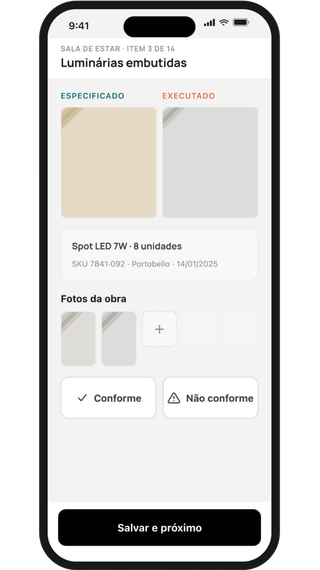
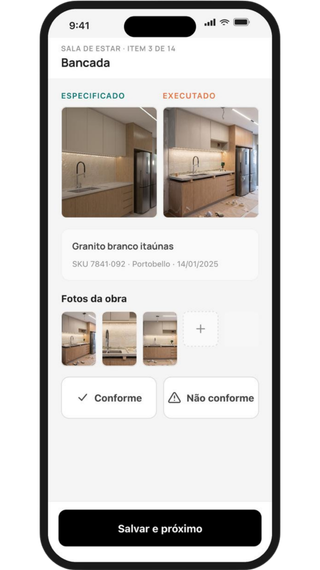
feat(routing): promove /jornada a home e move a home antiga para /antiga
- Renomeia src/app/jornada/{page.tsx,jornada.css} para src/app/{page.tsx,jornada.css};
  a página da jornada passa a responder pela raiz do site.
- Move a home antiga para src/app/antiga/page.tsx, preservando-a como referência
  acessível em /antiga.
- Topbar e Footer já linkavam para "/" — passam a apontar naturalmente para a
  jornada; nenhum link interno precisa ser ajustado.
- Substitui a tela "inspetor-vistoria" por uma nova versão gerada a partir do
  master 1920×3420 (320/640/960.webp + fallback PNG 320).

diff --git a/src/app/page.tsx b/src/app/page.tsx
@@ -1,33 +1,57 @@
-import { CarrosselLogos } from "@/components/carrossel-logos";
-import { FaleComAGente } from "@/components/fale-com-a-gente";
+import type { Metadata } from "next";
+import { Topbar } from "@/components/topbar";
 import { Footer } from "@/components/footer";
 import { Hero } from "@/components/hero";
-import { NavegandoNaPlataforma } from "@/components/navegando-na-plataforma";
-// import { NukiLab } from "@/components/nuki-lab";
-import { RecursoControleAnalise } from "@/components/recurso-controle-analise";
-import { RecursoPersonalizacao } from "@/components/recurso-personalizacao";
-import { SobreANuki } from "@/components/sobre-a-nuki";
-import { SobrePlataforma } from "@/components/sobre-plataforma";
-import { SuaIdentidade } from "@/components/sua-identidade";
-import { Topbar } from "@/components/topbar";
+import { CarrosselLogos } from "@/components/carrossel-logos";
+import {
+  JourneyHero,
+  JourneyModule,
+  JourneyOutro,
+  JourneyProgressNav,
+  JourneyScripts,
+  journeyModules,
+} from "@/components/jornada";
+import "./jornada.css";
 
-export default function Home() {
+export const metadata: Metadata = {
+  metadataBase: new URL("https://nukibr.com"),
+  title: "Nuki — A jornada, do custo à entrega",
+  description:
+    "Software de personalização para construtoras e incorporadoras: do memorial de incorporação à vistoria de entrega, num só fluxo — Planner, Personaliza e Inspetor.",
+  openGraph: {
+    type: "website",
+    siteName: "Nuki",
+    locale: "pt_BR",
+    title: "Nuki — A jornada, do custo à entrega",
+    description:
+      "Do memorial de incorporação à vistoria de entrega, num só fluxo: Planner, Personaliza e Inspetor.",
+    images: [
+      {
+        url: "/jornada/og-cover.png",
+        width: 1200,
+        height: 630,
+        alt: "Nuki — A jornada, do custo à entrega",
+      },
+    ],
+  },
+};
+
+export default function JornadaPage() {
   return (
-    <>
+    <div className="jornada flex min-h-screen flex-col">
       <Topbar />
+      <JourneyProgressNav />
       <main className="flex flex-1 flex-col">
         <Hero />
-        <SobrePlataforma />
-        <CarrosselLogos />
-        <NavegandoNaPlataforma />
-        <RecursoPersonalizacao />
-        <RecursoControleAnalise />
-        <SuaIdentidade />
-        {/* <NukiLab /> */}
-        <SobreANuki />
-        <FaleComAGente />
-        <Footer />
+        <JourneyHero />
+        {journeyModules.map((data) => (
+          <JourneyModule key={data.id} data={data} />
+        ))}
+        <JourneyOutro />
+        <CarrosselLogos backgroundClassName="bg-nuki-preto" />
       </main>
-    </>
+      <Footer />
+      <JourneyScripts />
+    </div>
   );
 }

diff --git a/src/app/antiga/page.tsx b/src/app/antiga/page.tsx
@@ -1,0 +1,33 @@
+import { CarrosselLogos } from "@/components/carrossel-logos";
+import { FaleComAGente } from "@/components/fale-com-a-gente";
+import { Footer } from "@/components/footer";
+import { Hero } from "@/components/hero";
+import { NavegandoNaPlataforma } from "@/components/navegando-na-plataforma";
+// import { NukiLab } from "@/components/nuki-lab";
+import { RecursoControleAnalise } from "@/components/recurso-controle-analise";
+import { RecursoPersonalizacao } from "@/components/recurso-personalizacao";
+import { SobreANuki } from "@/components/sobre-a-nuki";
+import { SobrePlataforma } from "@/components/sobre-plataforma";
+import { SuaIdentidade } from "@/components/sua-identidade";
+import { Topbar } from "@/components/topbar";
+
+export default function Home() {
+  return (
+    <>
+      <Topbar />
+      <main className="flex flex-1 flex-col">
+        <Hero />
+        <SobrePlataforma />
+        <CarrosselLogos />
+        <NavegandoNaPlataforma />
+        <RecursoPersonalizacao />
+        <RecursoControleAnalise />
+        <SuaIdentidade />
+        {/* <NukiLab /> */}
+        <SobreANuki />
+        <FaleComAGente />
+        <Footer />
+      </main>
+    </>
+  );
+}
